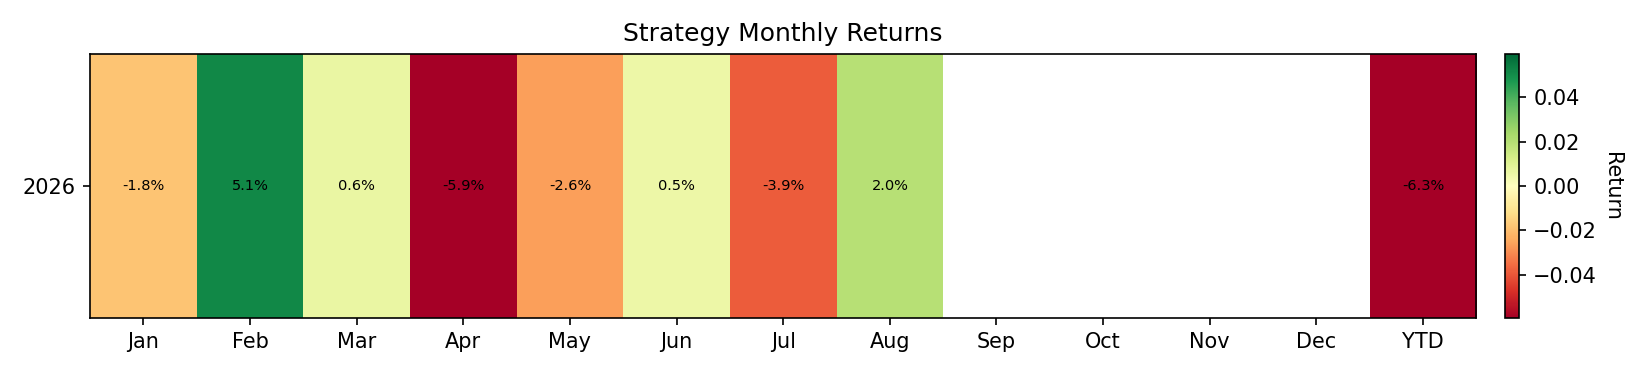
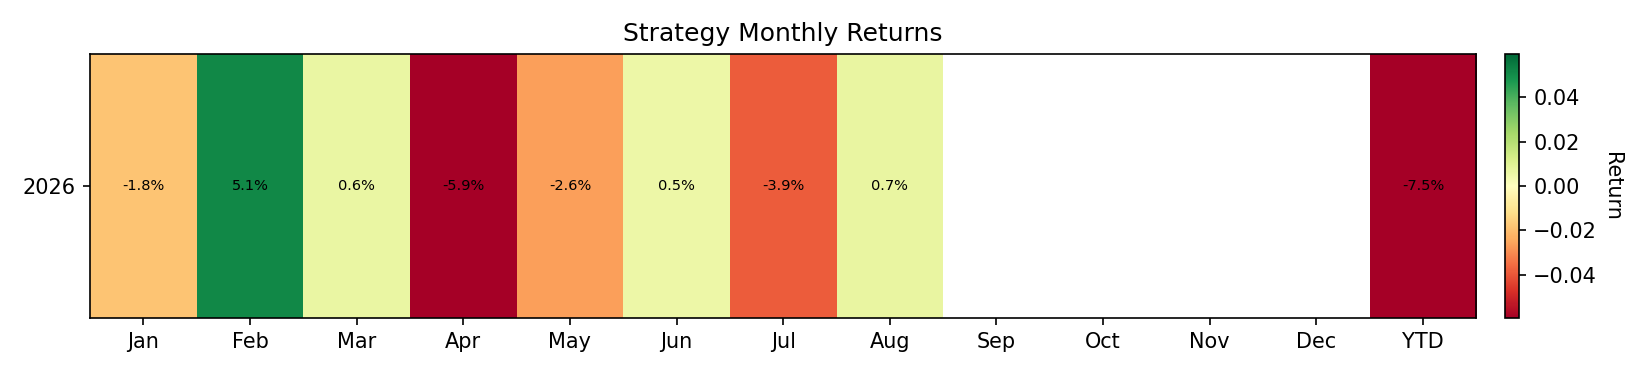
Update reports: 2026-08-20 00:00:18 UTC

Changed region(s): [[0.4945, 0.1467, 0.5873, 0.8507], [0.8345, 0.4693, 0.8655, 0.4987]]

diff --git a/README.md b/README.md
@@ -24,26 +24,26 @@ All results are live and reported net of transaction costs and slippage.
 <!-- METRICS_START -->
 | metric                       |        values |
 |:-----------------------------|--------------:|
-| Number of Observations       | 204           |
-| Mean Daily Return            |  -0.000286421 |
-| Daily Volatility             |   0.00817469  |
-| Mean Annualized Return       |  -0.104544    |
-| Annualized Volatility        |   0.156177    |
+| Number of Observations       | 205           |
+| Mean Daily Return            |  -0.000348216 |
+| Daily Volatility             |   0.00820249  |
+| Mean Annualized Return       |  -0.127099    |
+| Annualized Volatility        |   0.156708    |
 | Maximum Drawdown             |  -0.156146    |
-| Max Drawdown Duration (Days) | 175           |
-| Sharpe                       |  -0.66939     |
-| Sortino                      |  -0.917585    |
-| Calmar                       |  -0.669524    |
-| CAGR                         |  -0.110115    |
-| Skewness                     |   0.651195    |
-| Excess Kurtosis              |   9.04684     |
-| Win Rate                     |   0.485294    |
-| Profit Factor                |   0.895797    |
-| VaR 1%                       |  -0.0268336   |
+| Max Drawdown Duration (Days) | 176           |
+| Sharpe                       |  -0.811053    |
+| Sortino                      |  -1.1123      |
+| Calmar                       |  -0.813974    |
+| CAGR                         |  -0.130042    |
+| Skewness                     |   0.645995    |
+| Excess Kurtosis              |   8.87202     |
+| Win Rate                     |   0.482927    |
+| Profit Factor                |   0.875568    |
+| VaR 1%                       |  -0.0268206   |
 | CVaR 1%                      |  -0.0295742   |
-| VaR 5%                       |  -0.0104598   |
-| CVaR 5%                      |  -0.0192921   |
-| Correlation with BTC         |   0.00846591  |
+| VaR 5%                       |  -0.0111828   |
+| CVaR 5%                      |  -0.0195073   |
+| Correlation with BTC         |   0.00859145  |
 <!-- METRICS_END -->
 
 ## Sharpe Statistics
@@ -55,14 +55,14 @@ All results are live and reported net of transaction costs and slippage.
 | metric                     |   values |
 |:---------------------------|---------:|
 | alpha                      |   0.05   |
-| t-statistic                |  -0.5004 |
-| p-value                    |   0.6173 |
-| Daily Sharpe Ratio         |  -0.035  |
-| Annualized Sharpe Ratio    |  -0.6694 |
-| Sharpe Standard Error      |   1.3584 |
-| C.I. Lower Bound           |  -3.3317 |
-| C.I. Upper Bound           |   1.993  |
-| Bootstrap C.I. Lower Bound |  -3.6411 |
-| Bootstrap C.I. Upper Bound |   2.6987 |
+| t-statistic                |  -0.6078 |
+| p-value                    |   0.544  |
+| Daily Sharpe Ratio         |  -0.0425 |
+| Annualized Sharpe Ratio    |  -0.8111 |
+| Sharpe Standard Error      |   1.3591 |
+| C.I. Lower Bound           |  -3.4748 |
+| C.I. Upper Bound           |   1.8527 |
+| Bootstrap C.I. Lower Bound |  -3.8639 |
+| Bootstrap C.I. Upper Bound |   2.5723 |
 <!-- SHARPE_END -->
 
